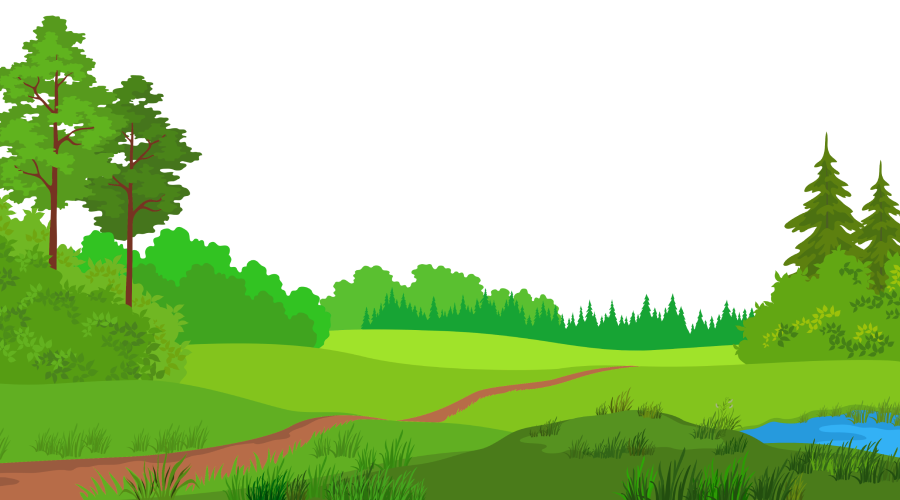
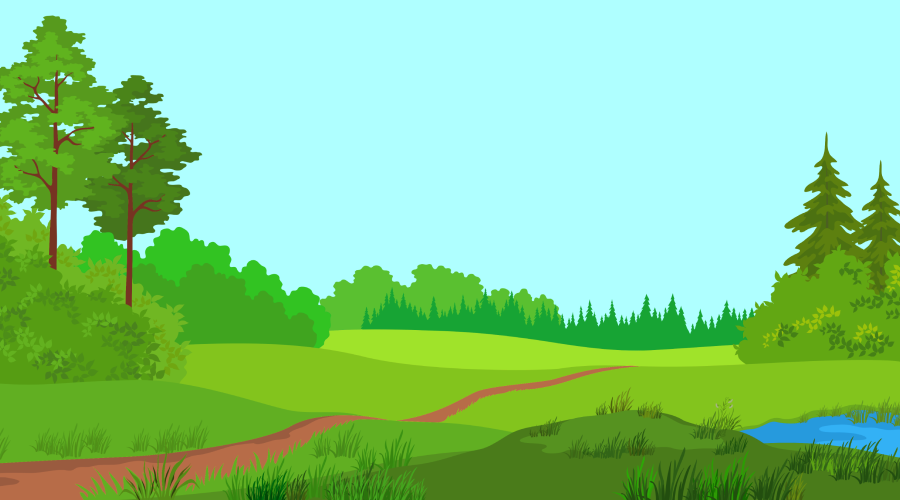
1

diff --git a/css/styles.css b/css/styles.css
@@ -12,7 +12,7 @@ body{
     height:100%;
     background-image: url("../img/thth.png");
     background-size: 100%;
-    background-color: rgba(17,237,237,0.33);
+    background-color: rgba(74,123, 26,1);
     background-repeat: no-repeat;
 }
 h1{
@@ -24,7 +24,7 @@ h1{
     height: 100px;
     top:0px;
     background-color:lightgreen;
-    justify-content: space-between;
+    justify-content: space-evenly;
 }
 .mainpage{
     padding: 0px;
@@ -199,6 +199,9 @@ select{
     font-family: comfortaa;
     text-align: center; 
 }
+.confirm{
+    font-size:24px;
+}
 input[type=checkbox]{
     margin-right: 10px;
 }
@@ -208,4 +211,98 @@ input:required:invalid
 }
 .regist::-webkit-scrollbar{
     display: none;
+}
+@media only screen and (max-width: 700px) {
+    h1{
+        height:50px;
+    }
+    .sitename{
+        font-size:22px;
+        height:50px;
+        width:220px;
+    }
+    .mainpage{
+        font-size:15px;
+        height:50px;
+        width:100px;
+        display: flex;
+        align-items: center;
+        justify-content: center;
+    }
+    .sections{
+        font-size:15px;
+        height:50px;
+        width:80px;
+        display: flex;
+        align-items: center;
+        justify-content: center;
+    }
+    .randompage{
+        font-size:15px;
+        height:50px;
+        width:100px;
+        display: flex;
+        align-items: center;
+        justify-content: center;
+
+    }
+    .reg{
+        font-size:15px;
+        height:50px;
+        width:120px;
+        display: flex;
+        align-items: center;
+        justify-content: center;
+    }
+    h2{
+        top:50px;
+        font-size:16px;
+    }
+    .welcometext{
+        width:400px;
+        bottom:180px;
+    }
+    h4 img{
+        height:15px;
+        width:15px;
+    }
+    .loginn{
+        height: 250px; width: 300px;
+        font-size: 15px;
+    }
+    input[type=text]{
+        height:25px;
+        font-size:12px;
+    }
+    input[type=password] {
+        height: 25px;
+        font-size:12px;
+    }
+    .regbut{
+        font-size: 15px;
+    }
+    .close1{
+        height: 30px;
+        width:30px;
+        top:-237px; left:275px;
+    }
+    .regist{
+        width:400px;
+        height:75%;
+        font-size:18px;
+    }
+    .registname{
+        height:20px;
+
+    }
+    .regist p{
+        padding:7px;
+        margin:0;
+    }
+    .confirm{
+        font-size:20px;
+    }
+    .close2{
+        top:-414px; left:375px;
+    }
 }

diff --git a/body.html b/body.html
@@ -10,12 +10,12 @@
       <input class="regbut" type="reset">
       <button type="button" class="regbut" onclick="loginhid(), registvis()">Регистрация</button>
       <div class="close1" onclick="hidereg()">
-        <img src="../img/cross.png" height="30px" width="30px">
+        <img src="img/cross.png" height="30px" width="30px">
       </div>
       </form>
     </div>
     <div class="regist" id="regist">
-    <form action="http://f92278pk.beget.tech/reg.php" method="POST" enctype="multipart/form-data">
+    <form action="C:\OpenServer\domains\project\reg.php" method="POST" enctype="multipart/form-data">
       <p class="registname">Регистрация</p>
       <p>Имя пользователя</p>
       <input name="login" type="text" pattern="[A-Za-z]{6,}[0-9]{1,}" required placeholder="Минимум 6 латинских символов и 1 цифра">
@@ -27,11 +27,11 @@
       <input name="password" type="password" pattern="[A-Za-z]{6,}[0-9]{1,}" required placeholder="Минимум 6 латинских свимволов и 1 цифра">
       <p>Подтверждение пароля</p>
       <input name="passwordcheck" type="password" pattern="[A-Za-z]{6,}[0-9]{1,}" required placeholder="Повторите пароль"><br><br>
-      <input name="rules" type="checkbox" required><span style="font-size:24px">Я принимаю правила сайта</span><br><br>
+      <input name="rules" type="checkbox" required><span class="confirm">Я принимаю правила сайта</span><br><br>
       <input class="regbut" type="submit">
       <input class="regbut" type="reset">
       <div class="close2" onclick="hidereg()">
-        <img src="../img/cross.png" height="30px" width="30px">
+        <img src="img/cross.png" height="30px" width="30px">
       </div>
     </form>
     </div>

diff --git a/index.php b/index.php
@@ -11,9 +11,9 @@
 </head>
 <body>
     <?php
-    echo(file_get_contents("http://f92278pk.beget.tech/header.html"));
-    echo(file_get_contents("http://f92278pk.beget.tech/body.html"));
-    echo(file_get_contents("http://f92278pk.beget.tech/footer.html"));
+    echo(file_get_contents("C:\OpenServer\domains\project\header.html"));
+    echo(file_get_contents("C:\OpenServer\domains\project\body.html"));
+    echo(file_get_contents("C:\OpenServer\domains\project\footer.html"));
     ?>
 </body>
 </html>
